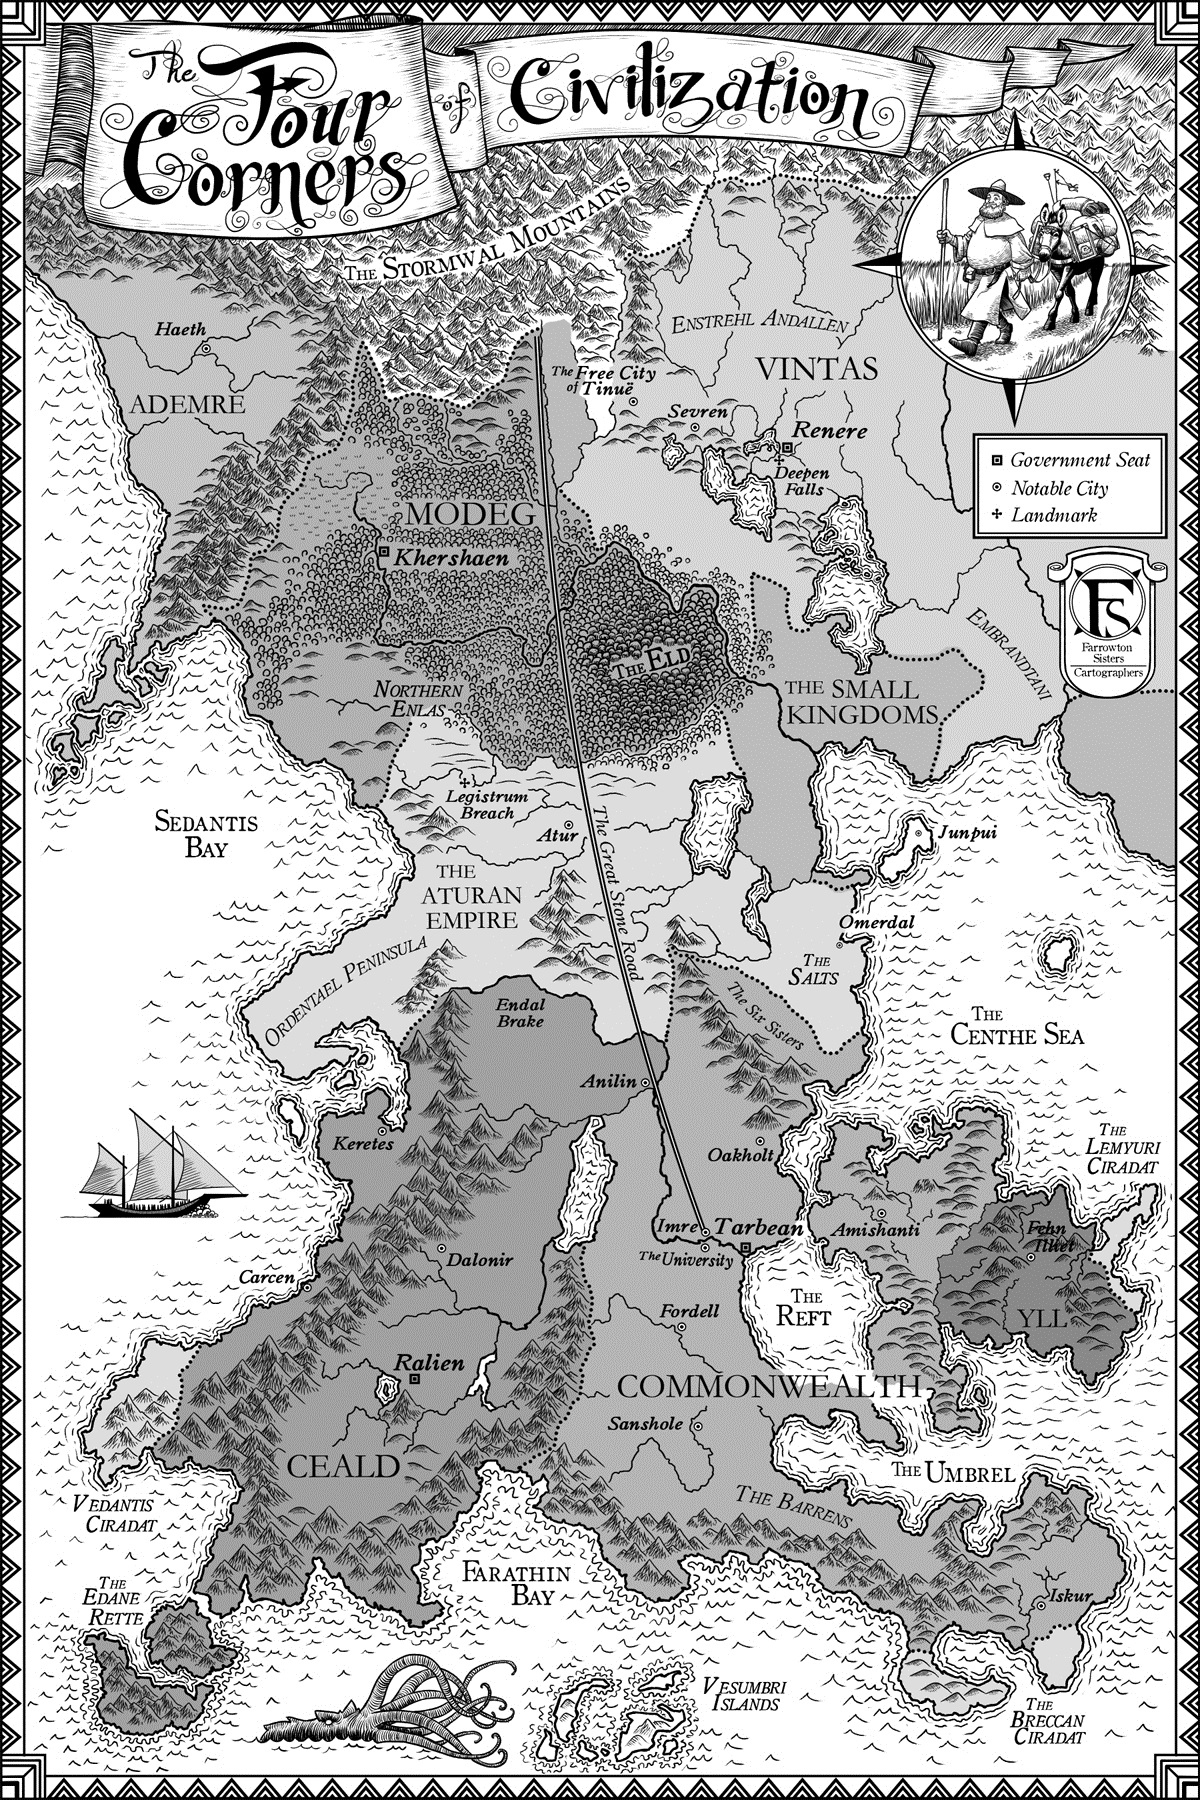
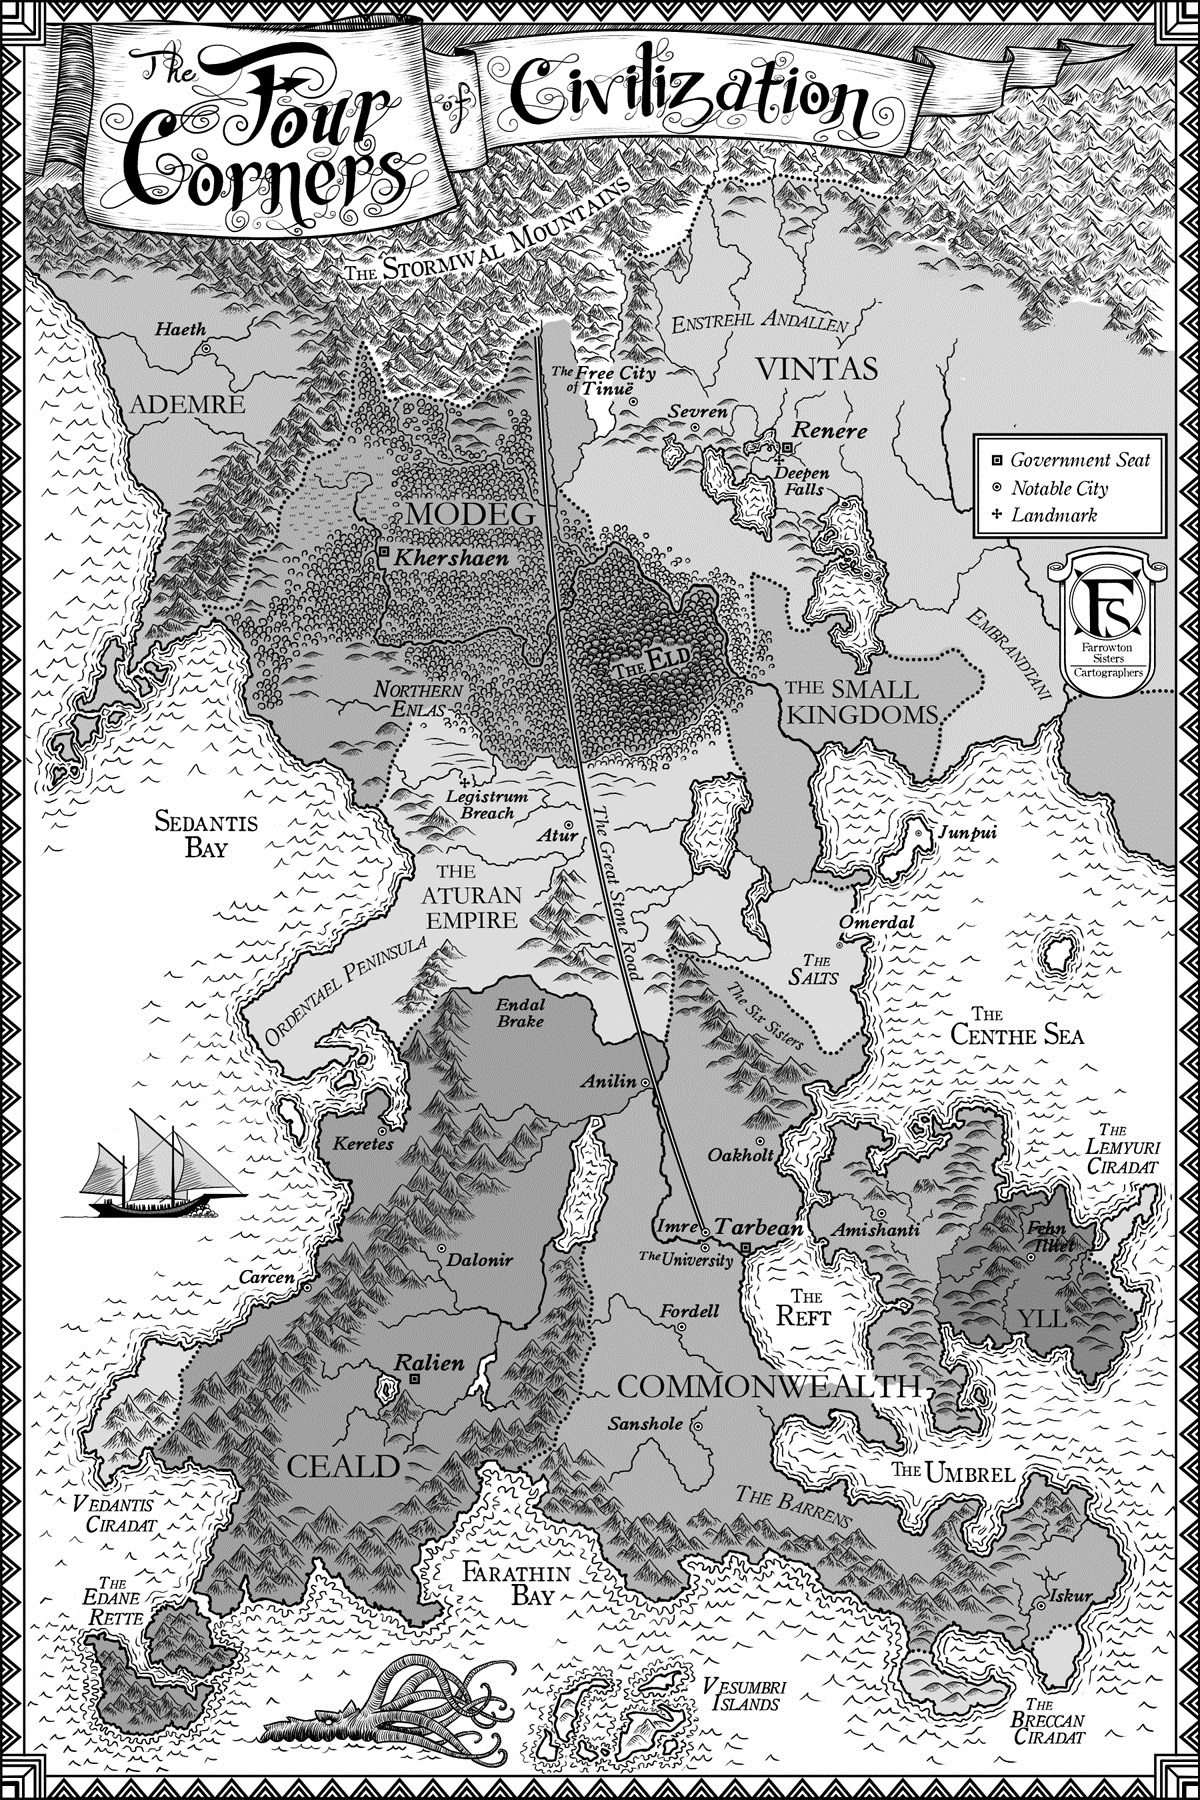
Tinker tanner

Changed region(s): [[0.7092, 0.0622, 0.9867, 0.2489], [0.6475, 0.0933, 0.6783, 0.1244]]

diff --git a/trifoil_compass.js b/trifoil_compass.js
@@ -2,6 +2,7 @@ var four_corners_map;
 var COLORS, LOCATIONS;
 var SLIDERS;
 var DEBUG = true;
+var canvas;
 
 function setup() {
     angleMode(RADIANS);
@@ -27,7 +28,8 @@ function setup() {
         "khershaen": createVector(385, 550),
     };
     // noCursor();
-    createCanvas(windowWidth, windowHeight);
+    canvas = createCanvas(windowWidth, windowHeight);
+
     four_corners_map = new FourCornersMap();
     four_corners_map.resize();
 }
@@ -38,7 +40,7 @@ function draw() {
 }
 
 function windowResized() {
-    resizeCanvas(windowWidth, windowHeight);
+    // resizeCanvas(windowWidth, windowHeight);
     four_corners_map.resize();
 }
 
@@ -208,6 +210,7 @@ var FourCornersMap = function() {
     this.scale = 1.0;
     this.position = createVector(0, 0);
     this.background_img = loadImage("assets/four_corners_map.jpg");
+    this.tinker_tanner = loadImage("assets/tinker_tanner.png");
     this.width = 1200;
     this.height = 1800;
     this.map_cursor = new MapCursor();
@@ -231,7 +234,7 @@ FourCornersMap.prototype.getNeedleOrientations = function() {
 }
 
 FourCornersMap.prototype.resize  = function() {
-    this.scale = windowHeight / this.height;
+    this.scale = 1280 / this.height;
 }
 
 FourCornersMap.prototype.getCompass  = function() {
@@ -294,6 +297,12 @@ FourCornersMap.prototype.display = function() {
     }
     
     this.map_cursor.display();
+    push();
+    translate(this.map_cursor.position.x, this.map_cursor.position.y);
+    scale(0.5);
+    imageMode(CENTER);
+    image(this.tinker_tanner, 0, -50);
+    pop();
 
     if (DEBUG) {
         g_pos = location_markers['gold'].position;
@@ -313,13 +322,13 @@ FourCornersMap.prototype.display = function() {
 
         estimated_pt = calculateThreeCircleIntersection(c_gp, c_pc, c_cg);
         if (estimated_pt != null) {
-            estimated_marker = new LocationMarker(color('pink'), estimated_pt);
+            estimated_marker = new LocationMarker(color('white'), estimated_pt);
             estimated_marker.display();
         }
 
-        c_gp.display();
-        c_pc.display();
-        c_cg.display();
+        // c_gp.display();
+        // c_pc.display();
+        // c_cg.display();
     }
 
     pop();
@@ -361,7 +370,7 @@ var TrifoilCompass = function(position) {
     this.radius = 115;
     this.compass_img = loadImage("assets/compass.png");
     this.north_marker_img = loadImage("assets/north.png");
-    this.compass_heading = - PI / 2.0;
+    this.compass_heading = 0;
     iron_needle = new Needle(0.95 * this.radius, 15, COLORS['iron']);
     gold_needle = new Needle(0.95 * this.radius, 15, COLORS['gold']);
     platinum_needle = new Needle(0.85 * this.radius, 10, COLORS['platinum']);
@@ -503,5 +512,3 @@ LocationMarker.prototype.display = function() {
     ellipse(this.position.x, this.position.y, 4);
     pop();
 }
-
-
